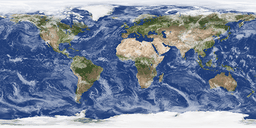
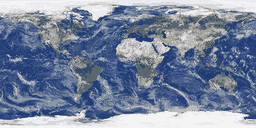
Add files via upload

diff --git a/tools/test_app_launch.c b/tools/test_app_launch.c
@@ -26,7 +26,16 @@
  * Nothing calls them - the tests only exercise planEmbeddedApp().
  */
 void quiesceForHandoff(void) {}
+void quiesceForBIOSExec(void) {}
 void flushCache(void) {}
+
+int biosExec(const void *execStructure, int argc, void *argv) {
+	(void) execStructure;
+	(void) argc;
+	(void) argv;
+	printf("  FAIL biosExec() reached in a host test\n");
+	exit(1);
+}
 
 __attribute__((noreturn)) void jumpToLoadedEXE(uint32_t pc, uint32_t gp,
                                                uint32_t sp) {
@@ -314,6 +323,40 @@ static void testBssPushesArenaAside(void) {
 	}
 }
 
+static void testBiosExecSelection(void) {
+	printf("BIOS Exec() hand-off selection\n");
+
+	AppLaunchPlan plan;
+
+	/* UniROM: direct path, so Exec() is available. */
+	makeExe(0x801d0000, 0x801d0000, 0x21000, 0, 0, 0x801fff00);
+	CHECK_RESULT(planEmbeddedApp(exeBuffer, 0, &plan), APP_PLAN_OK);
+	CHECK(plan.useStage1 == 0);
+	CHECK(plan.useBiosExec == 0);              /* off unless asked for */
+	CHECK(planUseBiosExec(&plan, 1) == 1);
+	CHECK(plan.useBiosExec == 1);
+	CHECK(planUseBiosExec(&plan, 0) == 1);
+	CHECK(plan.useBiosExec == 0);
+
+	/* Erasing RAM forces stage 1, which Exec() cannot coexist with: it runs
+	 * kernel code and returns into the caller's world on failure, so the
+	 * dashboard has to still be there. The request must be refused rather
+	 * than silently produce a plan that erases its own escape route. */
+	CHECK_RESULT(planEmbeddedApp(exeBuffer, 1, &plan), APP_PLAN_OK);
+	CHECK(plan.useStage1 == 1);
+	CHECK(planUseBiosExec(&plan, 1) == 0);
+	CHECK(plan.useBiosExec == 0);
+
+	/* Same for a target that lands on the dashboard and needs relocating. */
+	makeExe(0x80010000, 0x80010000, 0x40000, 0, 0, 0);
+	CHECK_RESULT(planEmbeddedApp(exeBuffer, 0, &plan), APP_PLAN_OK);
+	CHECK(plan.useStage1 == 1);
+	CHECK(planUseBiosExec(&plan, 1) == 0);
+
+	/* Turning it off is always allowed. */
+	CHECK(planUseBiosExec(&plan, 0) == 1);
+}
+
 static void testPhysicalAddressesAreCanonicalised(void) {
 	printf("KUSEG and KSEG1 header addresses become KSEG0\n");
 
@@ -339,6 +382,7 @@ int main(void) {
 	testEraseRamFills();
 	testRejections();
 	testBssPushesArenaAside();
+	testBiosExecSelection();
 	testPhysicalAddressesAreCanonicalised();
 
 	printf("\n%d checks, %d failures\n", checks, failures);

diff --git a/docs/TWO-STAGE-LAUNCHER.md b/docs/TWO-STAGE-LAUNCHER.md
@@ -233,6 +233,72 @@ indices, where a wrong index calls an arbitrary kernel routine. Worth doing
 only once there is evidence that stale kernel state is the actual problem -
 see the UniROM note below.
 
+## Three hand-off styles
+
+| Path | When | What performs the launch |
+|---|---|---|
+| Direct | destination and memfill clear the dashboard's `.text` and stack | `jumpToLoadedEXE()` - copy, flush, set `$gp`/`$sp`, jump |
+| BIOS `Exec()` | asked for, and the direct path applies | BIOS A0(43h) - the kernel sets `$gp`, builds the stack, fills BSS and calls the entry |
+| Stage 1 | payload lands on the copier, or RAM is being erased | position-independent trampoline in the arena |
+
+### Why `Exec()` exists
+
+UniROM starts correctly when the BIOS boots it and black-screens when the
+registers are set by hand - including over serial from the standalone SIO
+loader, which rules out the dashboard entirely. It installs its own kernel
+exception handler and TTY redirect and leans on BIOS services from its first
+instruction; the 240p suite and the SIO loader are bare-metal and do not care.
+
+A PS-EXE header from offset `0x10` onwards *is* the BIOS `EXEC` structure, so
+the whole hand-off is: copy the payload, `FlushCache`, `Exec(header + 0x10)`.
+The kernel then does exactly what it does when booting from disc.
+
+The other half of it is interrupt state. `quiesceForHandoff()` ends by writing
+0 to COP0 SR and masking every interrupt source - correct for a bare-metal
+target that installs its own handlers, fatal for one that waits on a kernel
+event that can then never fire. `quiesceForBIOSExec()` does everything else
+(SPU, DMA CHCR, GPU reset, COP0 breakpoints) but leaves the interrupt mask and
+SR exactly as they are.
+
+`Exec()` cannot be combined with erasing RAM or with stage 1: it runs kernel
+code and returns to the caller on failure, so the dashboard has to still be
+there. `planUseBiosExec()` refuses the combination rather than producing a plan
+that erases its own escape route.
+
+**Square** toggles it on the confirmation screen. UniROM defaults to `Exec()`
+on and erase off; the SIO loader keeps the direct jump that already works.
+
+## Asset budget
+
+The dashboard is ~80% of a 2 MB console, so anything embedded competes with
+what can be launched. Measured contents of the 1,624,064-byte payload:
+
+| Item | Bytes |
+|---|---:|
+| BGM x3 (ps3xmb, ps4xmb, sanctuary) | 970,192 |
+| textures | 179,584 -> 128,992 |
+| code + data | ~174,640 |
+| unirom_bin.exe | 137,216 |
+| SFX x9 | 123,504 |
+| cdloader.exe | 26,624 |
+| sioloader.exe | 8,192 |
+
+The three roaming planet textures (lava, earth, moon) are 4bpp, saving 50,592
+bytes against 8bpp. Their PNGs were requantized to 16 colours with
+Floyd-Steinberg dithering, because `tools/convertImage.py` rejects images over
+the colour limit instead of quantizing them - so re-exporting one of these at
+more than 16 colours will fail the build. The sun stays 8bpp: it is drawn far
+larger and banding shows.
+
+Pure black is deliberately absent from those palettes. The GPU treats a
+`0x0000` texel as transparent, and none of these textures contained black
+before, so introducing it would punch holes in the planets.
+
+Dead files removed (they were in `assets/` but no `addBinaryFile` line ever
+referenced them, so they cost disc space only, never RAM): `bgm.vag`,
+`newbgm.vag`, `bgm3.vag`, `cdloaderold.exe`, `cdlogo.tmd`, `pickup.vag`,
+`dpad.png`, `n00brom.rom`, plus the uncompiled `n00brom_launch.c/.h`.
+
 ## Not yet verified
 
 The planner logic is tested on the host. Stage 1 itself, the erase path and
